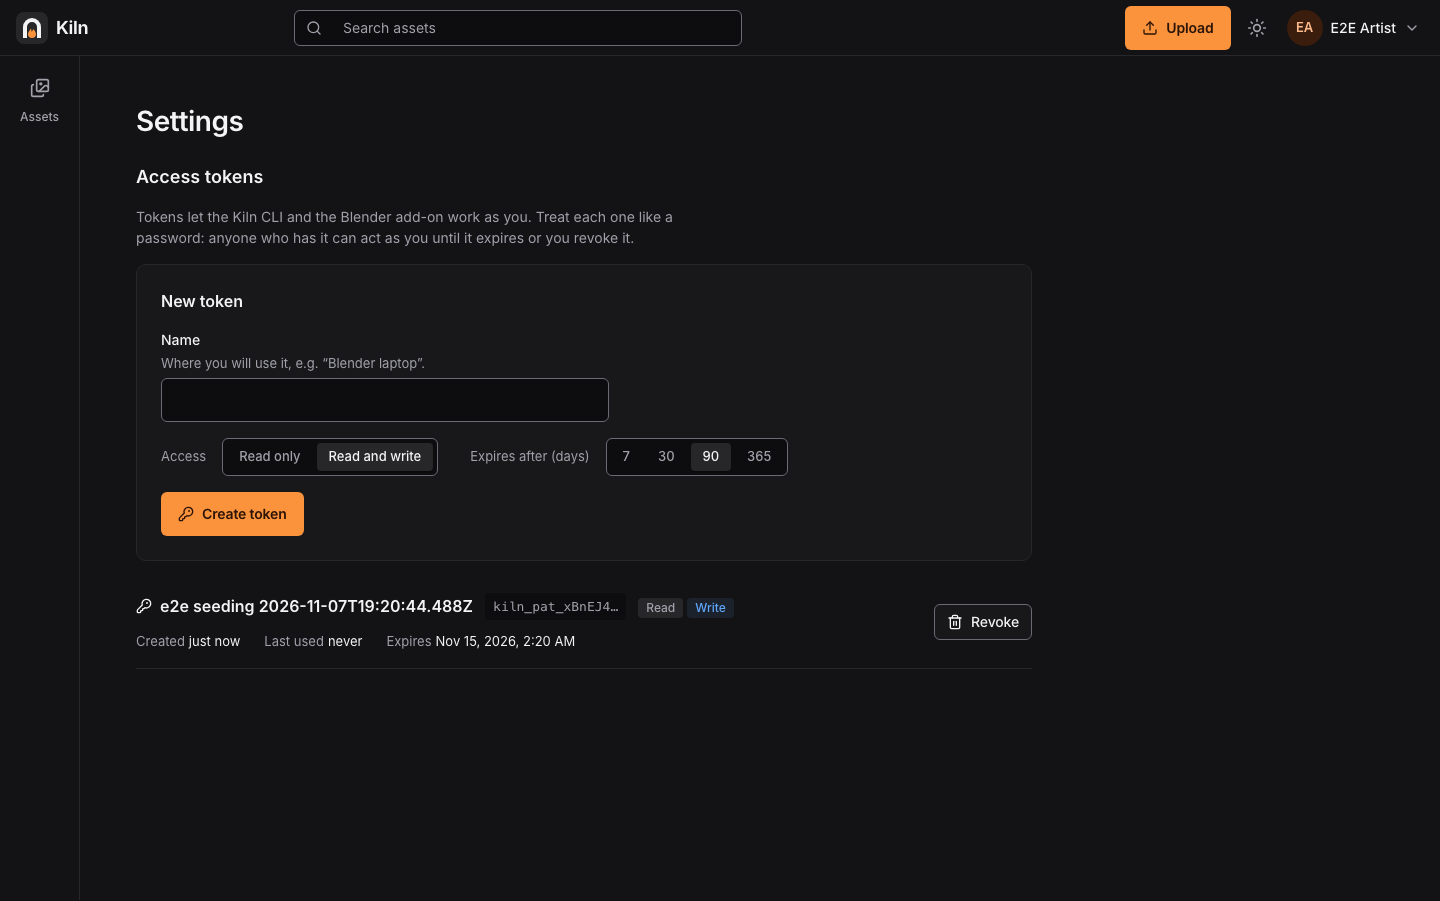
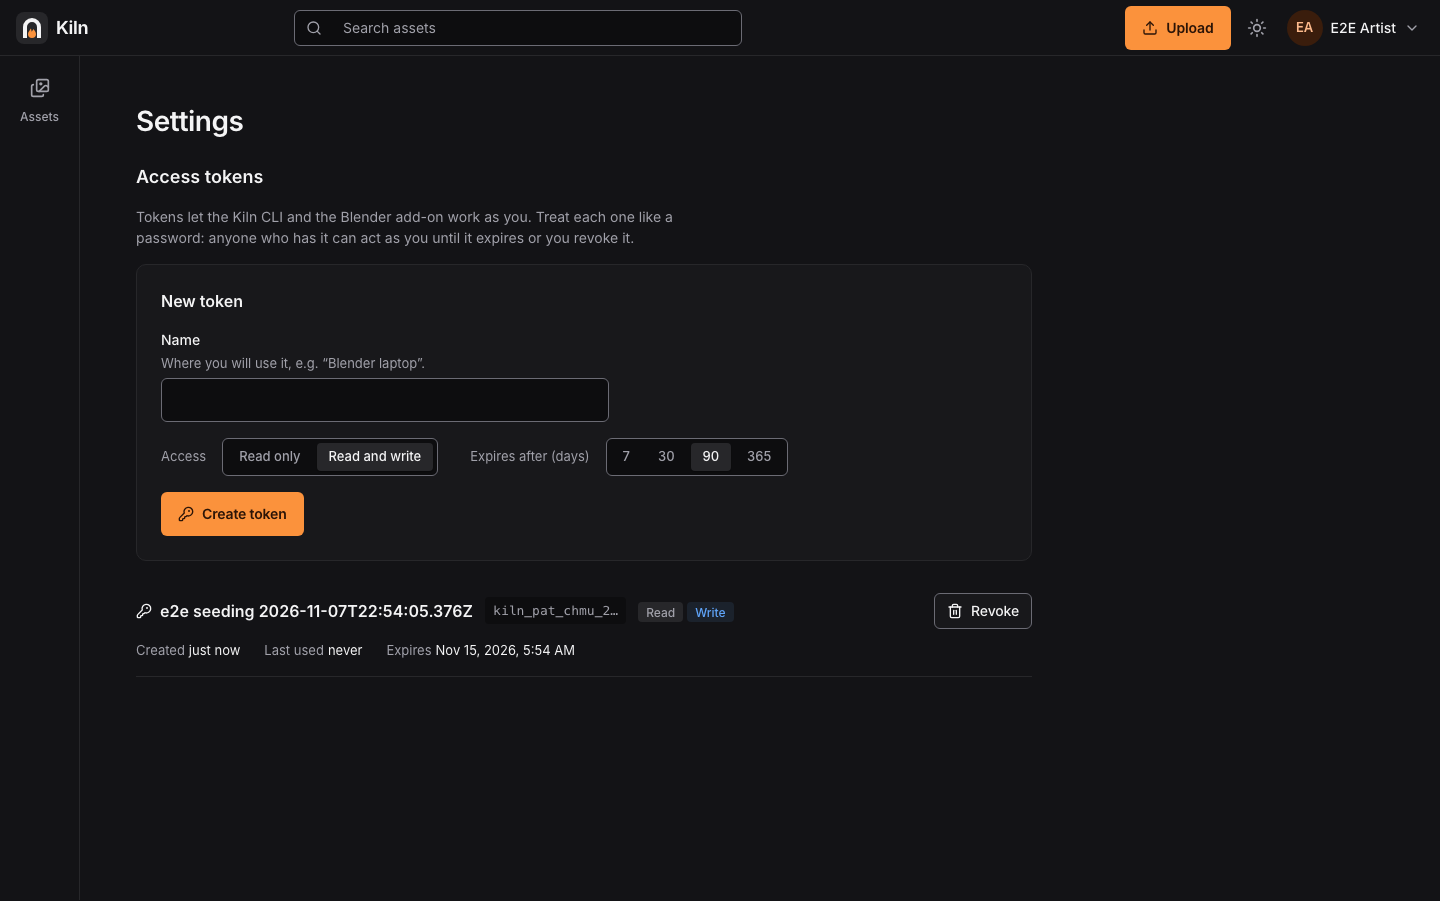
fix(web): revoke on the token name's line, and no reloads for coverage files
At 1440 px the Revoke button spanned both rows of a token and sat
lower than its name (review V6); it now shares the name's row and the
facts stay under the name. The dev server ignores coverage/, which
test runs rewrite and which reloaded the open page each time.
Screenshots re-shot at 1440 and 390 px in both themes.

Refs: KILN-12

Changed region(s): [[0.0938, 0.6526, 0.5, 0.7458], [0.6562, 0.6526, 0.7188, 0.7148]]

diff --git a/apps/web/src/features/tokens/components/TokenList.css b/apps/web/src/features/tokens/components/TokenList.css
@@ -113,20 +113,26 @@
   padding: var(--kiln-space-4) 0;
 }
 
-/* With room, the facts and the action sit beside the name. */
+/* With room, Revoke sits on the name's line, at the end; the facts go under the name. */
 @container (min-width: 720px) {
   .token-list__row {
     grid-template-columns: minmax(0, 1fr) auto;
     align-items: center;
   }
 
+  .token-list__main {
+    grid-column: 1;
+    grid-row: 1;
+  }
+
   .token-list__facts {
+    grid-column: 1;
     grid-row: 2;
   }
 
   .token-list__actions {
     grid-column: 2;
-    grid-row: 1 / span 2;
+    grid-row: 1;
     justify-content: flex-end;
   }
 }

diff --git a/apps/web/vite.config.ts b/apps/web/vite.config.ts
@@ -18,7 +18,8 @@ const apiProxy: Record<string, ProxyOptions> = {
 };
 
 export default defineConfig({
-  server: { proxy: apiProxy },
+  // Test runs rewrite coverage/ often; watching it reloaded the open page each time.
+  server: { proxy: apiProxy, watch: { ignored: ['**/coverage/**'] } },
   preview: { proxy: apiProxy },
   plugins: [tanstackRouter({ target: 'react', autoCodeSplitting: true }), react()],
   resolve: { alias: { '@': fileURLToPath(new URL('./src', import.meta.url)) } },

diff --git a/docs/stories/KILN-12.md b/docs/stories/KILN-12.md
@@ -115,3 +115,5 @@ Exploratory: through the dev proxy (`http://localhost:5173/api/v1/…`) sign-in 
 | V4 migrations 0006/0007 ran without `lock_timeout`                                                     | `migrations/env.py` opens every migration session with `lock_timeout` 5 s and `statement_timeout` 10 min (`-x lock_timeout_ms=` for tests); 0006 adds the owner and uploader foreign keys `NOT VALID`, then validates them in their own transaction. 0006 was edited after it was applied on the dev database: nothing is deployed yet, and the end state (validated keys, same names) is identical, so the dev database keeps its accounts | `db/test_migrations.py` `test_migrations_give_up_on_a_held_lock_instead_of_queueing_writers` (a writer holds `assets`: the upgrade fails with "lock timeout" in < 5 s instead of waiting), `test_the_owner_foreign_keys_end_validated`; the existing up/down and schema-match tests                                                                                                                                                                                  |
 | V7 the session purge filtered on an unindexed `last_seen_at`                                           | migration 0008 builds `ix_sessions_last_seen_at` concurrently (a new migration, so the dev database needs no downgrade)                                                                                                                                                                                                                                                                                                                     | `test_the_migrations_match_the_schema_module`; dev database: `make migrate` → 0008 applied, index present                                                                                                                                                                                                                                                                                                                                                            |
 | V3 passwords were not Unicode-normalised                                                               | NFKC (NIST SP 800-63B 5.1.1.2) at creation (length counted after it) and at sign-in; no password with non-ASCII characters existed yet, so no re-hash is needed                                                                                                                                                                                                                                                                             | `test_identity_domain.py` `test_a_password_is_nfkc_normalised_so_composed_and_decomposed_forms_match`, `test_the_length_rule_counts_the_normalised_password`; `test_sessions_api.py` `test_a_password_signs_in_whichever_unicode_form_the_keyboard_sent` (NFD → NFC and NFC → NFD; one direction fails with sign-in normalisation removed)                                                                                                                           |
+| V6 at 1440 px Revoke sat lower than the token name                                                     | from a 720 px container, Revoke shares the name's grid row (end aligned); the facts stay under the name                                                                                                                                                                                                                                                                                                                                     | `docs/delivery/KILN-12/screens/kiln-12-settings-1440-{dark,light}.png` re-shot and looked at (390 px unchanged)                                                                                                                                                                                                                                                                                                                                                      |
+| Coordinator note: the dev server reloaded the page for each coverage file                              | `server.watch.ignored: ['**/coverage/**']` in `apps/web/vite.config.ts`                                                                                                                                                                                                                                                                                                                                                                     | config only                                                                                                                                                                                                                                                                                                                                                                                                                                                          |

diff --git a/CHANGELOG.md b/CHANGELOG.md
@@ -27,6 +27,8 @@ Follows [Keep a Changelog](https://keepachangelog.com/en/1.1.0/) and [SemVer](ht
 
 ### Fixed
 
+- Settings: on wide windows Revoke sits on the token name's line; `make web` no longer reloads the page while tests write coverage files (KILN-12 review).
+
 - Passwords are NFKC-normalised when created and at sign-in, so a composed and a decomposed "é" are the same password (NIST SP 800-63B; KILN-12 review).
 
 - Migrations wait at most 5 s for a lock (and 10 min per statement), so DDL never queues writers behind it; the owner and uploader foreign keys are added `NOT VALID` and validated separately; migration 0008 indexes `sessions.last_seen_at` for the idle purge (KILN-12 review).
